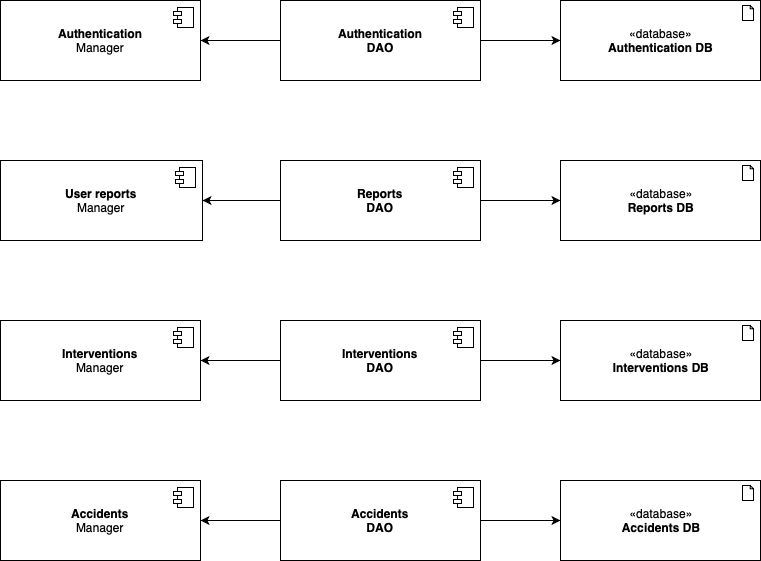
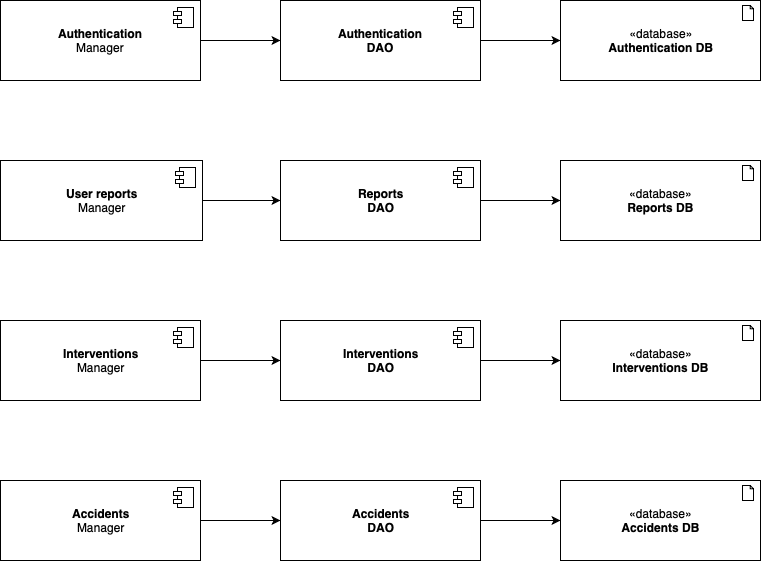
integration with the db tier

diff --git a/DD/5.ImplementationIntegrationTestPlan/ImplementationIntegrationTestPlan.tex b/DD/5.ImplementationIntegrationTestPlan/ImplementationIntegrationTestPlan.tex
@@ -107,7 +107,7 @@ The following diagrams represent the integration of the components that are part
 \image{4cm}{Images/Chap5/CompIntAppServerExtService2.png}{License Plate Recognize Service Integration}{} 
 
 \subsubsection{Integration with the Database tier}
-The DataAccessObject components essentially "use" manager components and database components, as the arrowhead shows.
+The DataAccessObject components essentially "are used" by manager components to access database components, as the arrowhead shows.
 \image{10cm}{Images/Chap5/CompIntAppServerDataLayer.png}{DataAccessObjects - Database Integration}{}
 
 \newpage
